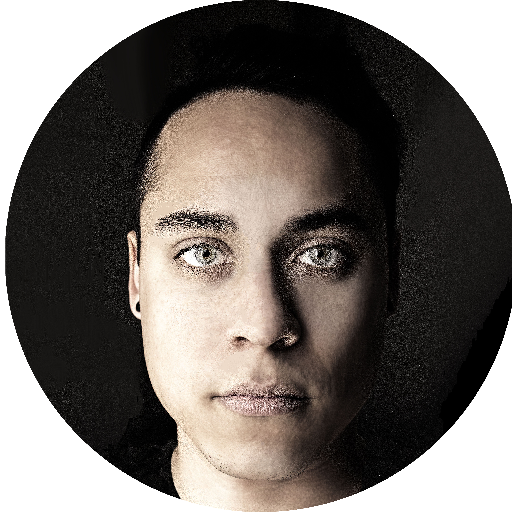
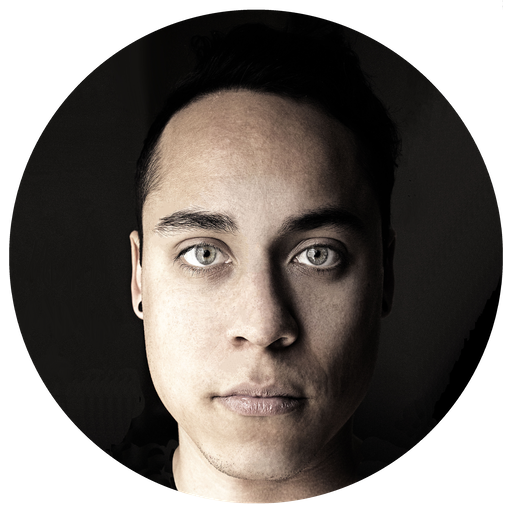
Update profile image to 512 version

diff --git a/_includes/header.html b/_includes/header.html
@@ -3,7 +3,7 @@
         <div class="container">
             <div class="row">
                 <div class="col-lg-12">
-                    <img class="profile-img" src="img/Rey_profile.png" alt="">
+                    <img class="profile-img" src="img/Rey_profile-512.png" alt="">
                     <div class="intro-text">
                         <span class="name">{{ site.title }}</span>
                         <span class="pronounce">(v&#277;r-&#365;ks)</span>

diff --git a/_site/index.html b/_site/index.html
@@ -86,7 +86,7 @@
         <div class="container">
             <div class="row">
                 <div class="col-lg-12">
-                    <img class="profile-img" src="img/Rey_profile.png" alt="">
+                    <img class="profile-img" src="img/Rey_profile-512.png" alt="">
                     <div class="intro-text">
                         <span class="name">VerUX</span>
                         <span class="pronounce">(v&#277;r-&#365;ks)</span>

diff --git a/_site/portfolio/2016/02/08/The-Falls/index.html b/_site/portfolio/2016/02/08/The-Falls/index.html
@@ -86,7 +86,7 @@
         <div class="container">
             <div class="row">
                 <div class="col-lg-12">
-                    <img class="profile-img" src="img/Rey_profile.png" alt="">
+                    <img class="profile-img" src="img/Rey_profile-512.png" alt="">
                     <div class="intro-text">
                         <span class="name">VerUX</span>
                         <span class="pronounce">(v&#277;r-&#365;ks)</span>

diff --git a/_site/portfolio/2016/02/08/TheChurch/index.html b/_site/portfolio/2016/02/08/TheChurch/index.html
@@ -86,7 +86,7 @@
         <div class="container">
             <div class="row">
                 <div class="col-lg-12">
-                    <img class="profile-img" src="img/Rey_profile.png" alt="">
+                    <img class="profile-img" src="img/Rey_profile-512.png" alt="">
                     <div class="intro-text">
                         <span class="name">VerUX</span>
                         <span class="pronounce">(v&#277;r-&#365;ks)</span>

diff --git a/_site/template/2014/07/15/template/index.html b/_site/template/2014/07/15/template/index.html
@@ -86,7 +86,7 @@
         <div class="container">
             <div class="row">
                 <div class="col-lg-12">
-                    <img class="profile-img" src="img/Rey_profile.png" alt="">
+                    <img class="profile-img" src="img/Rey_profile-512.png" alt="">
                     <div class="intro-text">
                         <span class="name">VerUX</span>
                         <span class="pronounce">(v&#277;r-&#365;ks)</span>
